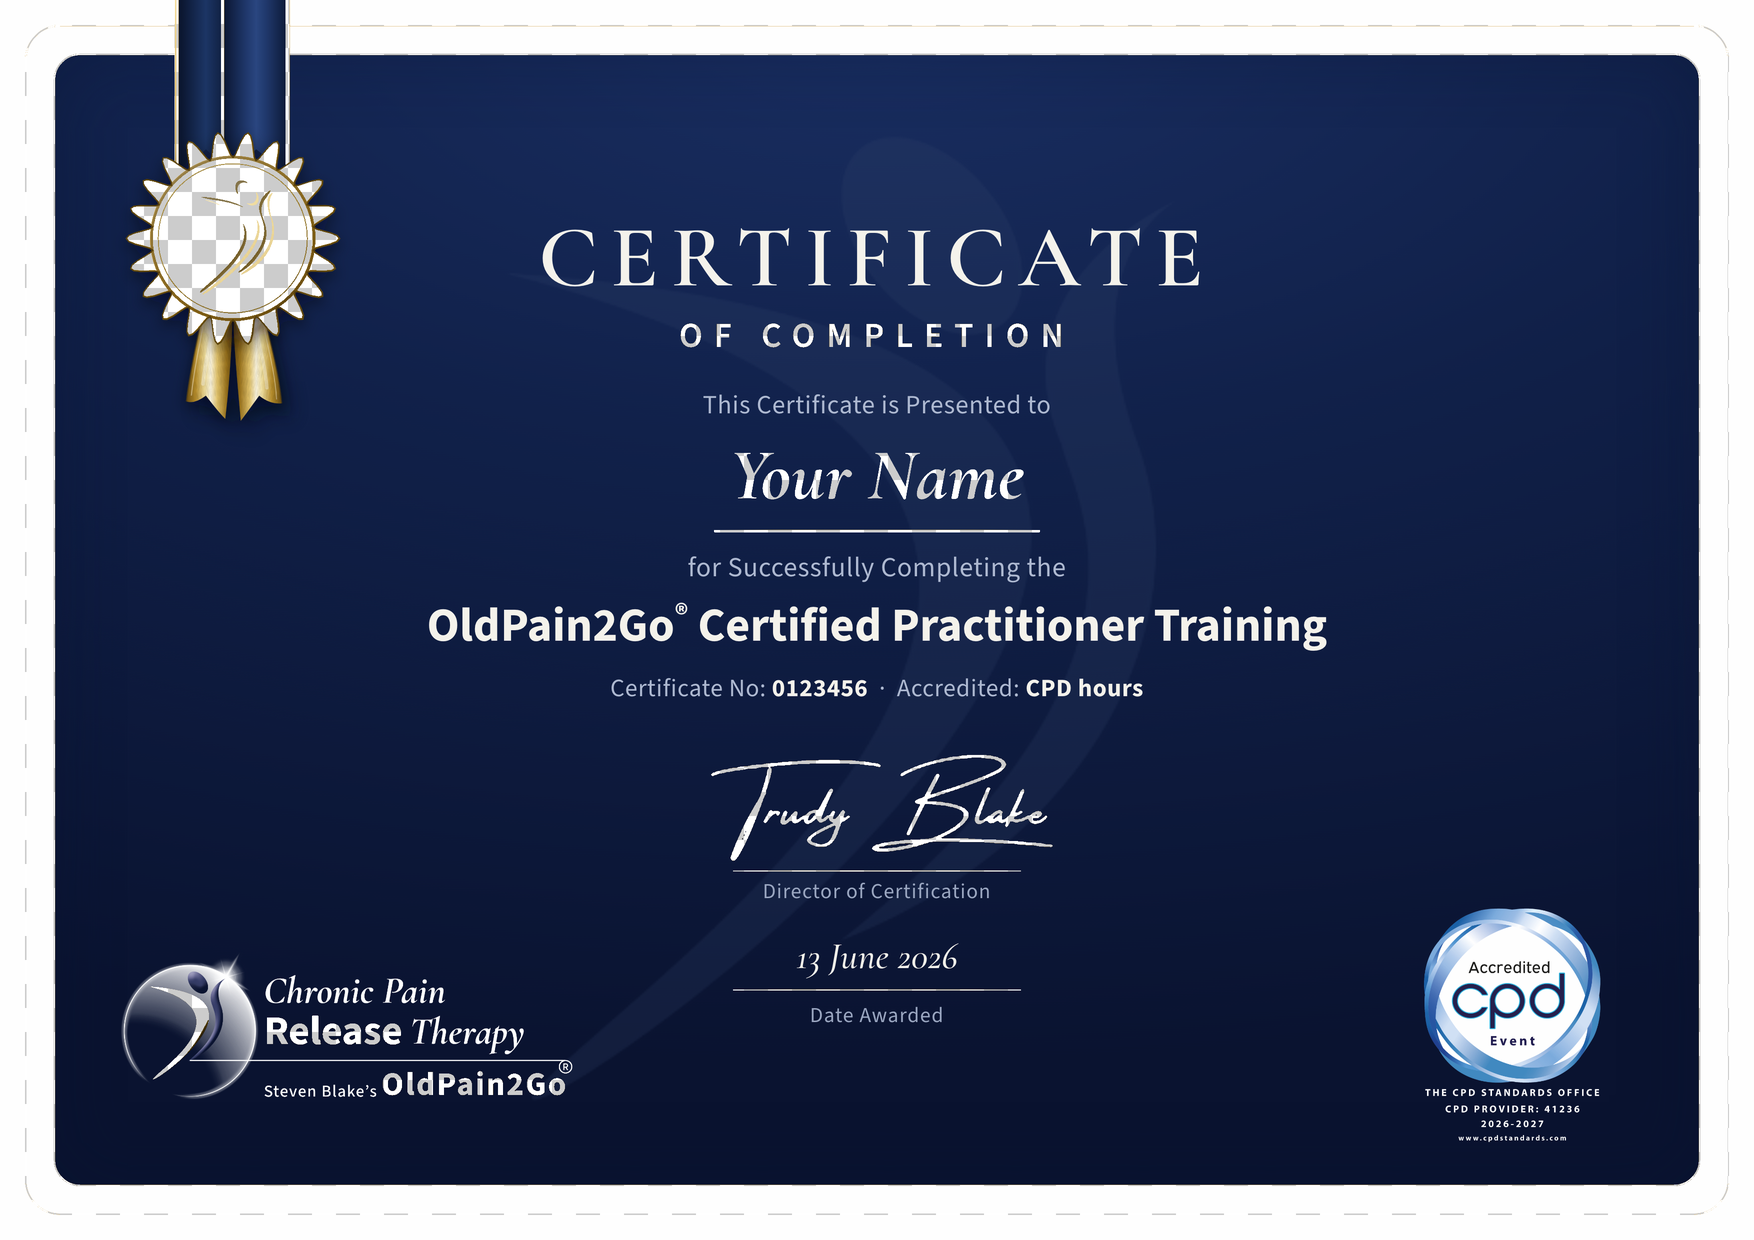
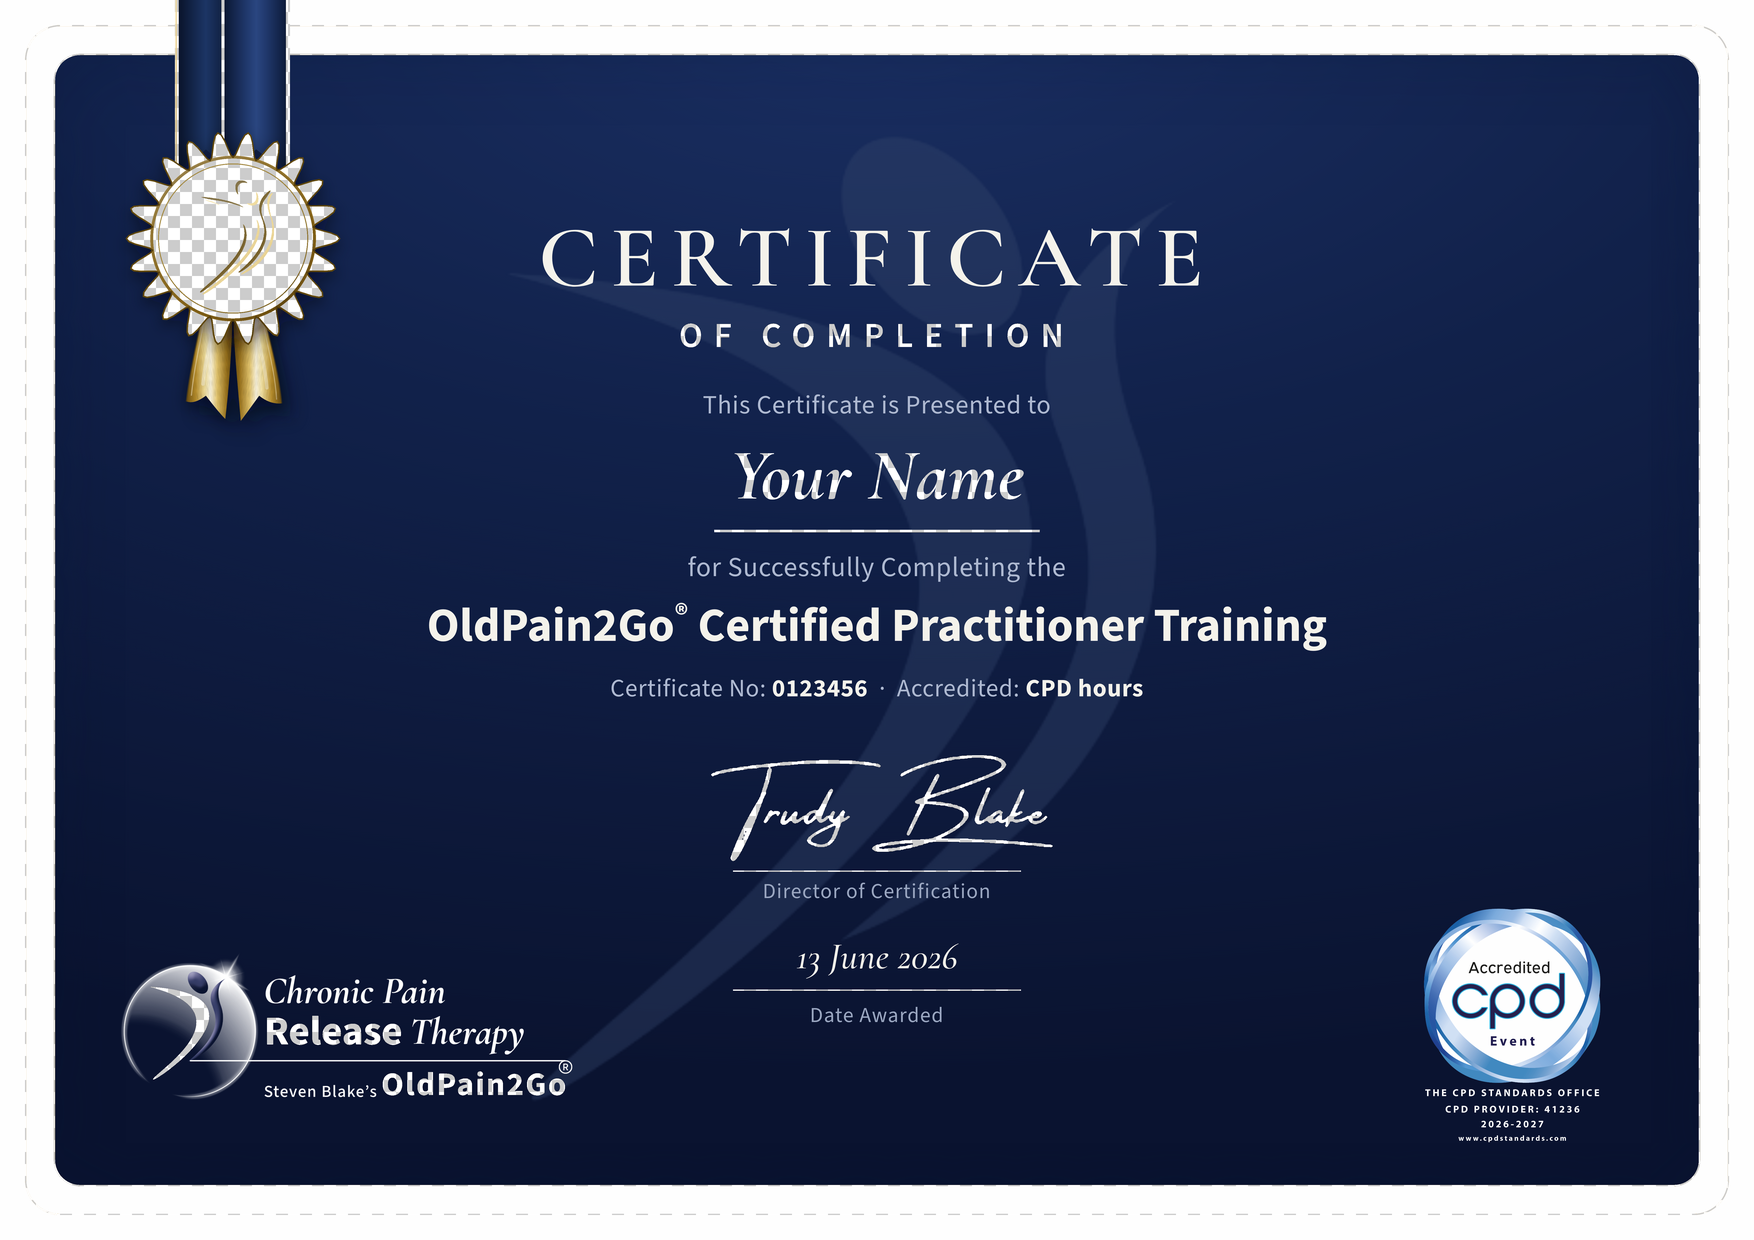
Certificate previews: 2026-07-22 artwork corrections
Refreshes both live preview pages to match Final V1 Pack V1.1.

foil-preview/: regenerated from the current 600 dpi build. Carries
the dark JoyHope watermark at its print value (0.40, was 0.22 and
invisible on the printed sample) and the OldPain2Go logo swoosh as
a single solid foil shape (309 shaded gold pixels per edition were
printing as a brown line instead of foiling).

cert-preview/: replaces the light edition's award ribbon vector with
Tony's corrected export. The strap's bottom edge had a V-notch that
let the background show through between the gold spikes.

Claude-Session: https://claude.ai/code/session_016EYKxrV9NycKPomPZnkQ6P

diff --git a/foil-preview/index.html b/foil-preview/index.html
@@ -23,7 +23,7 @@
   .note { padding:10px 16px 16px; color:#9aa6be; font-size:13px; }
 </style></head><body>
 <h1>OP2Go Certificate — Prodigi Foil Print Files (V3)</h1>
-<p class="sub">Both editions, identical foil treatment. Files are transparent PNG, 3508×2480 @ 300&nbsp;dpi.</p>
+<p class="sub">Both editions, identical foil treatment. Files are transparent PNG, 7016×4960 @ 600&nbsp;dpi.</p>
 <div class="legend">
   <b>Foil map</b> paints every foil area in teal over the design — so anything <i>not</i> teal prints as
   ink. Confirm: the white/light background, the white borders, the CPD seal and all body text are
